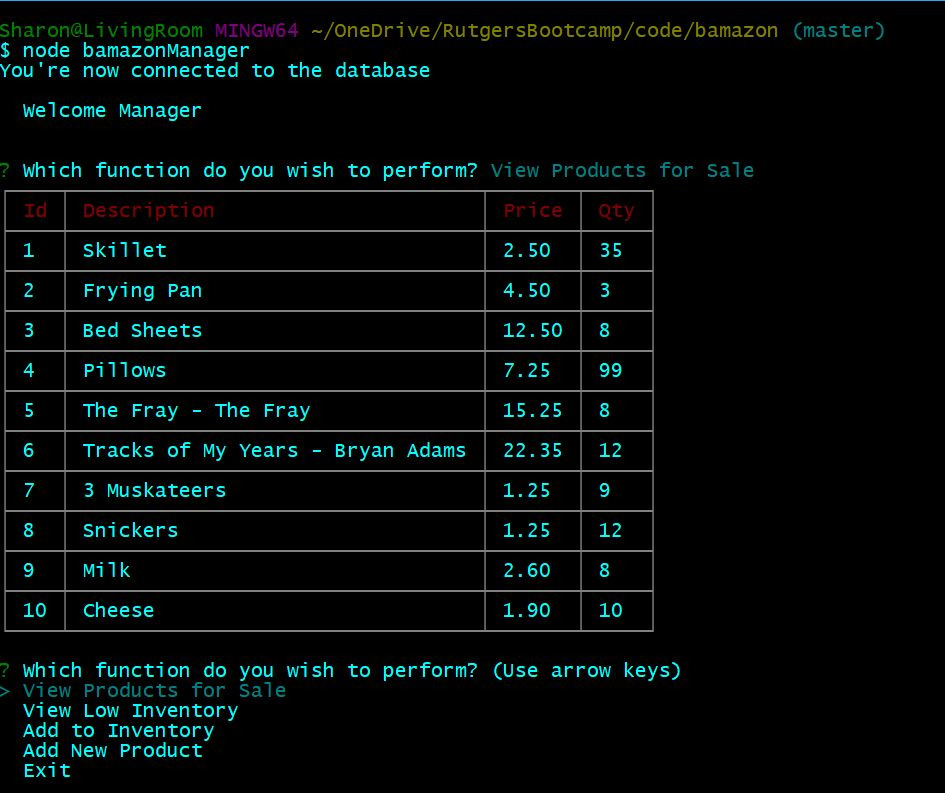
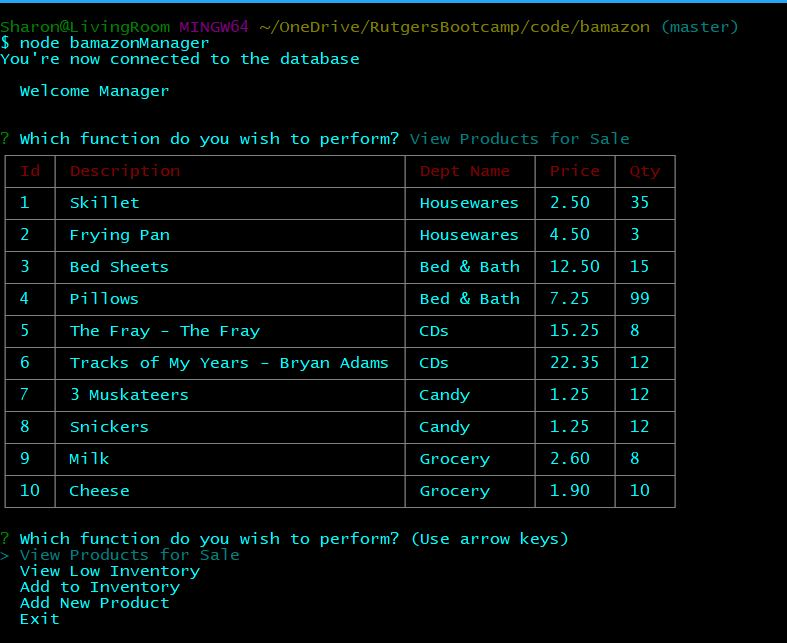
Final Changes

diff --git a/bamazonSupervisor.js b/bamazonSupervisor.js
@@ -61,83 +61,91 @@ const viewSalesReport = () => {
   const table = new Table({ head: [`Id`, `Department`, `Overhead`, `Sales`, `Profit`] });
 
   // Select the report fields
-  const query = db.query("SELECT department_id, department_name, AVG(overhead_costs) AS overhead, sum(product_sales) AS total_sales, (sum(product_sales) - overhead_costs) AS total_profit FROM departments JOIN products ON department_name = dept_name GROUP BY department_id, department_name", (err, deptData) => {
+  const query =
+    db.query("SELECT department_id, department_name, AVG(overhead_costs) AS overhead, sum(product_sales) AS total_sales, (sum(product_sales) - overhead_costs) AS total_profit FROM departments LEFT JOIN products ON department_name = dept_name GROUP BY department_id, department_name",
+      (err, deptData) => {
 
-    // If an error occurs report it
-    if (err) throw err;
+        // If an error occurs report it
+        if (err) throw err;
 
-    // Loop through the departments returned from the database and load into table
-    deptData.forEach(dept => {
-      table.push([`${dept.department_id}`,
-      `${dept.department_name}`,
-      `$${dept.overhead.toFixed(2)}`,
-      `$${dept.total_sales.toFixed(2)}`,
-      `$${dept.total_profit.toFixed(2)}`]);
-    });
+        // Loop through the departments returned from the database and load into table
+        deptData.forEach(dept => {
 
-    // Display table on screen
-    console.log(table.toString());
-    console.log();
-  });
+          // If results from query are NULL, type will be object, set value to 0 for display
+          if (typeof(dept.total_sales) === 'object') dept.total_sales = 0;
+          if (typeof(dept.total_profit) === 'object') dept.total_profit = 0;
+          
+          table.push([`${dept.department_id}`,
+          `${dept.department_name}`,
+          `$${dept.overhead.toFixed(2)}`,
+          `$${dept.total_sales.toFixed(2)}`,
+          `$${dept.total_profit.toFixed(2)}`]);
+        });
 
-  console.log(query.sql);
+        // Display table on screen
+        console.log(table.toString());
+        console.log();
+        // Prompt the supervisor for the next action
+        promptSupervisor();
+      });
 
-  // Prompt the supervisor for the next action
-  promptSupervisor();
+  // console.log(query.sql)
 };
 
 const createNewDepartment = () => {
-  
+
   // Prompt the supervisor for the new department name and overhead costs
   inquirer
-  .prompt([
-    {
-      type: "input"
-      ,name: "dept"
-      ,message: "What department do you want to add?"
-    },
-    {
-      type: "input"
-      ,name: "overhead"
-      ,message: "What is the monthly overhead?"
-      ,validate: (overhead) => {
-        if (!isNaN(overhead)) {
-          return true;
-        }
-        else {
-          return false;
+    .prompt([
+      {
+        type: "input"
+        , name: "dept"
+        , message: "What department do you want to add?"
+      },
+      {
+        type: "input"
+        , name: "overhead"
+        , message: "What is the monthly overhead?"
+        , validate: (overhead) => {
+          if (!isNaN(overhead)) {
+            return true;
+          }
+          else {
+            return false;
+          }
         }
       }
-    }
-  ]).then(userResp => {
-    console.log(userResp);
+    ]).then(userResp => {
+      // console.log(userResp);
 
-    // Call the function to add new dept
-    addDept(userResp);
-
-    // Prompt the supervisor for the next action
-    promptSupervisor();
-  })
+      // Call the function to add new dept
+      addDept(userResp);
+    })
 }
 
 // Add new dept to database
 const addDept = (userResp) => {
-  console.log(userResp);
+  // console.log(userResp);
 
   // SQL query to insert new item in database
   const query = db.query("INSERT INTO departments SET ?",
-  {
-    department_name: userResp.dept,
-    overhead_costs: userResp.overhead
-  },
-  (err, res) => {
+    {
+      department_name: userResp.dept,
+      overhead_costs: userResp.overhead
+    },
+    (err, res) => {
 
-    // If an error occurs, report it
-    if (err) throw err;
+      // If an error occurs, report it
+      if (err) throw err;
 
-    // report item inserted
-    console.log(`${res.affectedRows} department inserted!`);
-  });
+      // report item inserted
+      console.log(`
+        ${res.affectedRows} department inserted!
+        `);
 
-  console.log(`Add item: ${query.sql}`);
+      // Prompt the supervisor for the next action
+      promptSupervisor();
+    });
+
+  // console.log(`Add item: ${query.sql}`);
 };

diff --git a/bamazonManager.js b/bamazonManager.js
@@ -69,10 +69,10 @@ const viewProducts = () => {
   // console.log('view products');
 
   // Create the heading for the table
-  const table = new Table({ head: ['Id', 'Description', 'Price', 'Qty'] });
+  const table = new Table({ head: ['Id', 'Description', 'Dept Name', 'Price', 'Qty'] });
 
   // Select the products from the database
-  const query = db.query("SELECT id, product_name, price, stock_qty FROM products", (err, productData) => {
+  const query = db.query("SELECT id, product_name, dept_name, price, stock_qty FROM products", (err, productData) => {
 
     // If an error occurs report it
     if (err) throw err;
@@ -81,6 +81,7 @@ const viewProducts = () => {
     productData.forEach(product => {
       table.push([`${product.id}`,
       `${product.product_name}`,
+      `${product.dept_name}`,
       `${product.price.toFixed(2)}`,
       `${product.stock_qty}`]);
     });
@@ -100,10 +101,10 @@ const viewLowInventory = () => {
   // console.log('view low inventory');
 
   // Create the heading for the table
-  const table = new Table({ head: ['Id', 'Description', 'Price', 'Qty'] });
+  const table = new Table({ head: ['Id', 'Description', 'Dept Name', 'Price', 'Qty'] });
 
   // Select products from database with less then 5 in stock
-  const query = db.query("SELECT id, product_name, price, stock_qty FROM products WHERE stock_qty < 5", (err, productData) => {
+  const query = db.query("SELECT id, product_name, dept_name, price, stock_qty FROM products WHERE stock_qty < 5", (err, productData) => {
 
     // If an error occurs, report it
     if (err) throw err;
@@ -112,6 +113,7 @@ const viewLowInventory = () => {
     productData.forEach(product => {
       table.push([`${product.id}`,
       `${product.product_name}`,
+      `${product.dept_name}`,
       `${product.price.toFixed(2)}`,
       `${product.stock_qty}`]);
     });
@@ -153,12 +155,9 @@ const increaseInventory = () => {
       } // end qty prompt
     ])
     .then(userResp => {
-      console.log(userResp);
+      // console.log(userResp);
       updateQty(userResp);
-
-      // Prompt the manager for the next action
-      promptManager();
-    });
+    })
 };
 
 const updateQty = (resp) => {
@@ -171,9 +170,14 @@ const updateQty = (resp) => {
     if (err) throw err;
 
     // report item updated
-    console.log(`${res.affectedRows} product updated!`);
-  });
-  console.log(`update ${query.sql}`);
+    console.log(`
+      ${res.affectedRows} product(s) updated!
+      `);
+
+    // Prompt the manager for the next action
+    promptManager();
+  })
+  // console.log(`Update ${query.sql}`);
 };
 
 const newProduct = () => {
@@ -195,7 +199,7 @@ const newProduct = () => {
       {
         type: "input"
         , name: "price"
-        , message: "How munch to charge?"
+        , message: "How much to charge?"
         , validate: (price) => {
           if (!isNaN(price)) {
             return true;
@@ -223,16 +227,13 @@ const newProduct = () => {
 
       // Call function to add new item
       addItem(userResp);
-
-      // Prompt the manager for the next action
-      promptManager();
-
-    });
+    })
 };
 
 // Add new item to database
 const addItem = (userResp) => {
-  console.log(userResp);
+
+  // console.log(userResp);
 
   // SQL query to insert new item in database
   const query = db.query("INSERT INTO products SET ?",
@@ -248,9 +249,13 @@ const addItem = (userResp) => {
       if (err) throw err;
 
       // report item inserted
-      console.log(`${res.affectedRows} product inserted!`);
+      console.log(`
+        ${res.affectedRows} product inserted!
+        `);
 
+      // Prompt the manager for the next action
+      promptManager();
     });
 
-  console.log(`Add item: ${query.sql}`);
+  // console.log(`Add item: ${query.sql}`);
 };

diff --git a/README.md b/README.md
@@ -13,7 +13,7 @@ An interactive shopping node app where MySQL and Node.JS are used to:
 
 ***
 
-The Bamazon Customer Portal allows users to view the current items available for puchase. The user will be prompted to enter the item id# and how many items they wish to purchase. If the item is in stock, the order will be completed and the user will see the total amount of their purchase.
+The Bamazon Customer Portal allows customers to view the current items available for puchase. The customer will be prompted to enter the item id# and how many items they wish to purchase. If the item is in stock, the order will be completed and the customer will see the total amount of their purchase.
 
 ![Customer Portal](screenshots/customer.JPG)
 
@@ -21,7 +21,7 @@ The Bamazon Customer Portal allows users to view the current items available for
 
 ***
 
-The Bamazon Manager Portal allows users to view and edit the inventory of the store. The user will be prompted to choose from the following options:
+The Bamazon Manager Portal allows users to view and edit the inventory of the store. The manager will be prompted to choose from the following options:
 
 * View Products for Sale
 * View Low Inventory
@@ -35,7 +35,7 @@ The Bamazon Manager Portal allows users to view and edit the inventory of the st
 
 ***
 
-The first option allows the user to see the list of products that are currently for sale, what department the item belongs to, the price of the product, and how much stock is left for that product.
+The first option allows the manager to see the list of products that are currently for sale, what department the item belongs to, the price of the product, and how much stock is left for that product.
 
 ![Manager Option 1](screenshots/managerOption1.JPG)
 
@@ -43,9 +43,49 @@ The first option allows the user to see the list of products that are currently 
 
 ***
 
-The second option allows the user to see a list of all inventory items that have less than 5 items in stock. If there are no products that meet this criteria, the user will see an empty table.
+The second option allows the manager to see a list of all inventory items that have less than 5 items in stock. If there are no products that meet this criteria, the manager will see an empty table.
 
 ![Manager Option 2](screenshots/managerOption2.JPG)
+
+#### Manager Option 3
+
+***
+
+The third option allows the manager to add inventory to an existing product.
+
+![Manager Option 3](screenshots/managerOption3.JPG)
+
+#### Manager Option 4
+
+***
+
+The fourth option allows the manager to add a new product to inventory.
+
+![Manager Option 4](screenshots/managerOption4.JPG)
+
+### Bamazon Supervisor Portal
+
+***
+
+The Bamazon Supervisor Portal allows users to view the total profits of the store categorized by department and add new departments. The supervisor will be prompted to choose from the following options:
+
+![Supervisor Menu](screenshots/supervisorMenu.JPG)
+
+### Supervisor Option 1
+
+***
+
+The first option allows the supervisor to view a list of departments including the overhead costs, total sales, and profits to date for the department.
+
+![Supervisor Option 1](screenshots/supervisorOption1.JPG)
+
+### Supervisor Option 2
+
+***
+
+The second option allows the supervisor to add a new department.
+
+![Supervisor Option 2](screenshots/supervisorOption2.JPG)
 
 ## Installation
 
